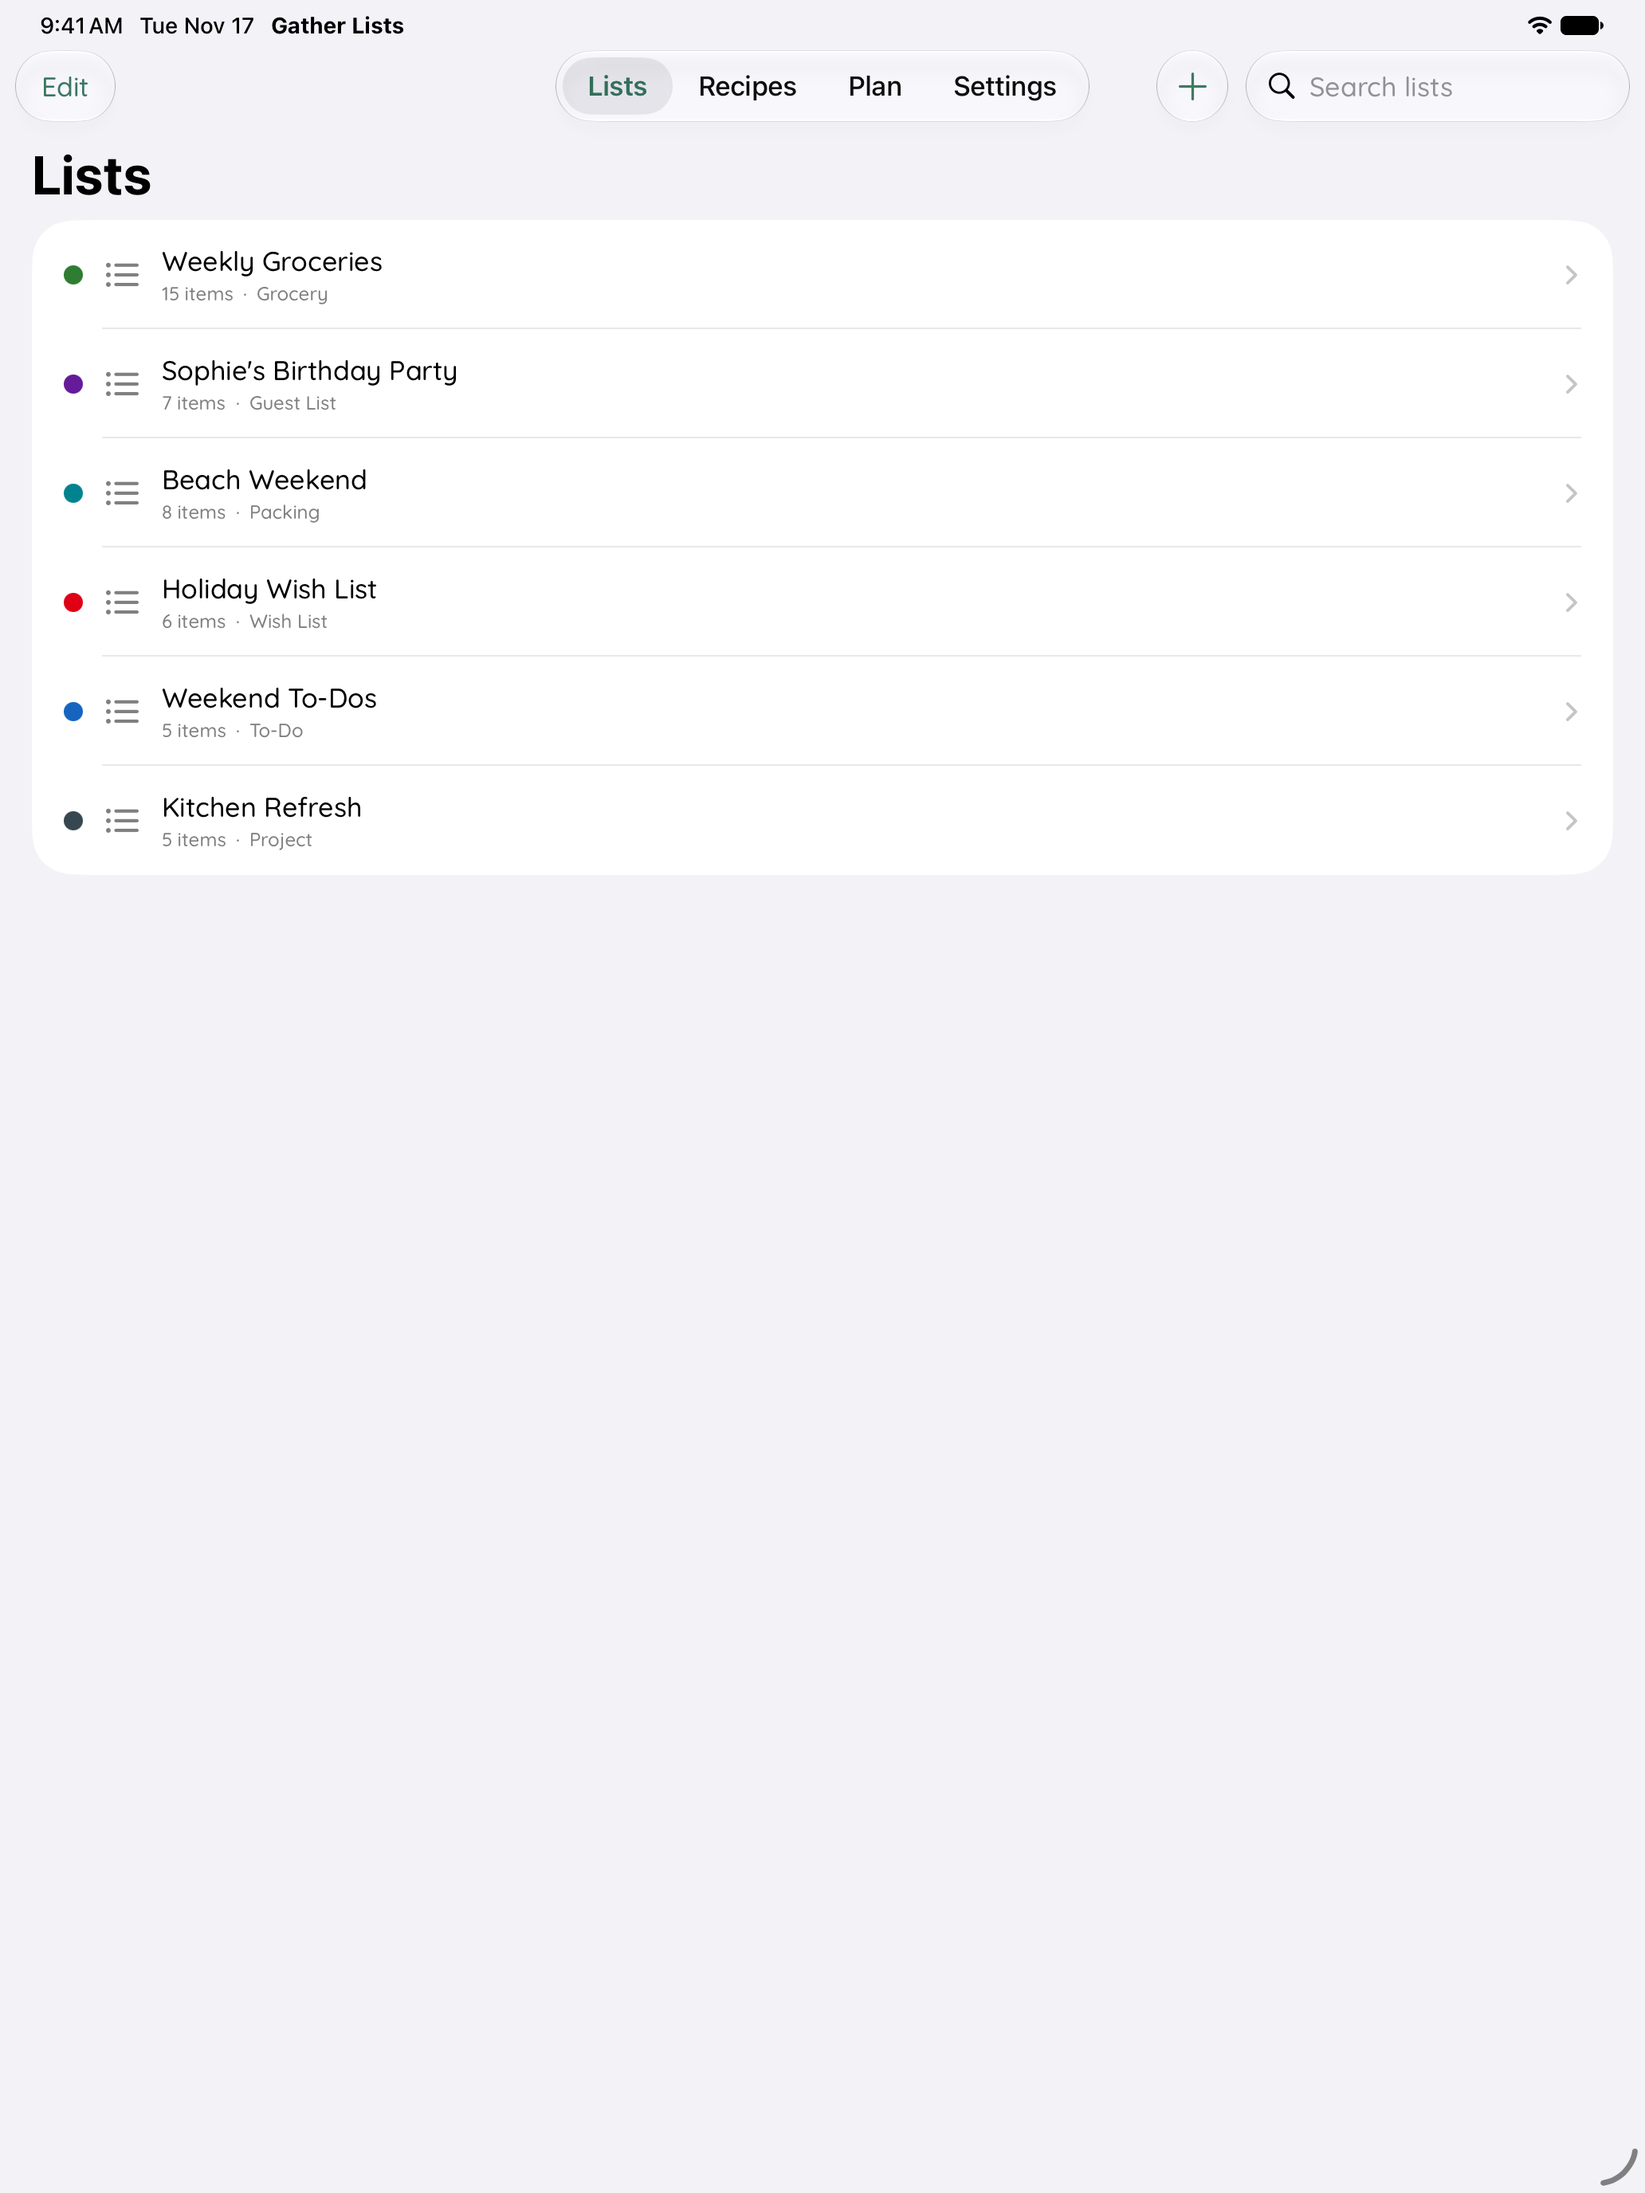
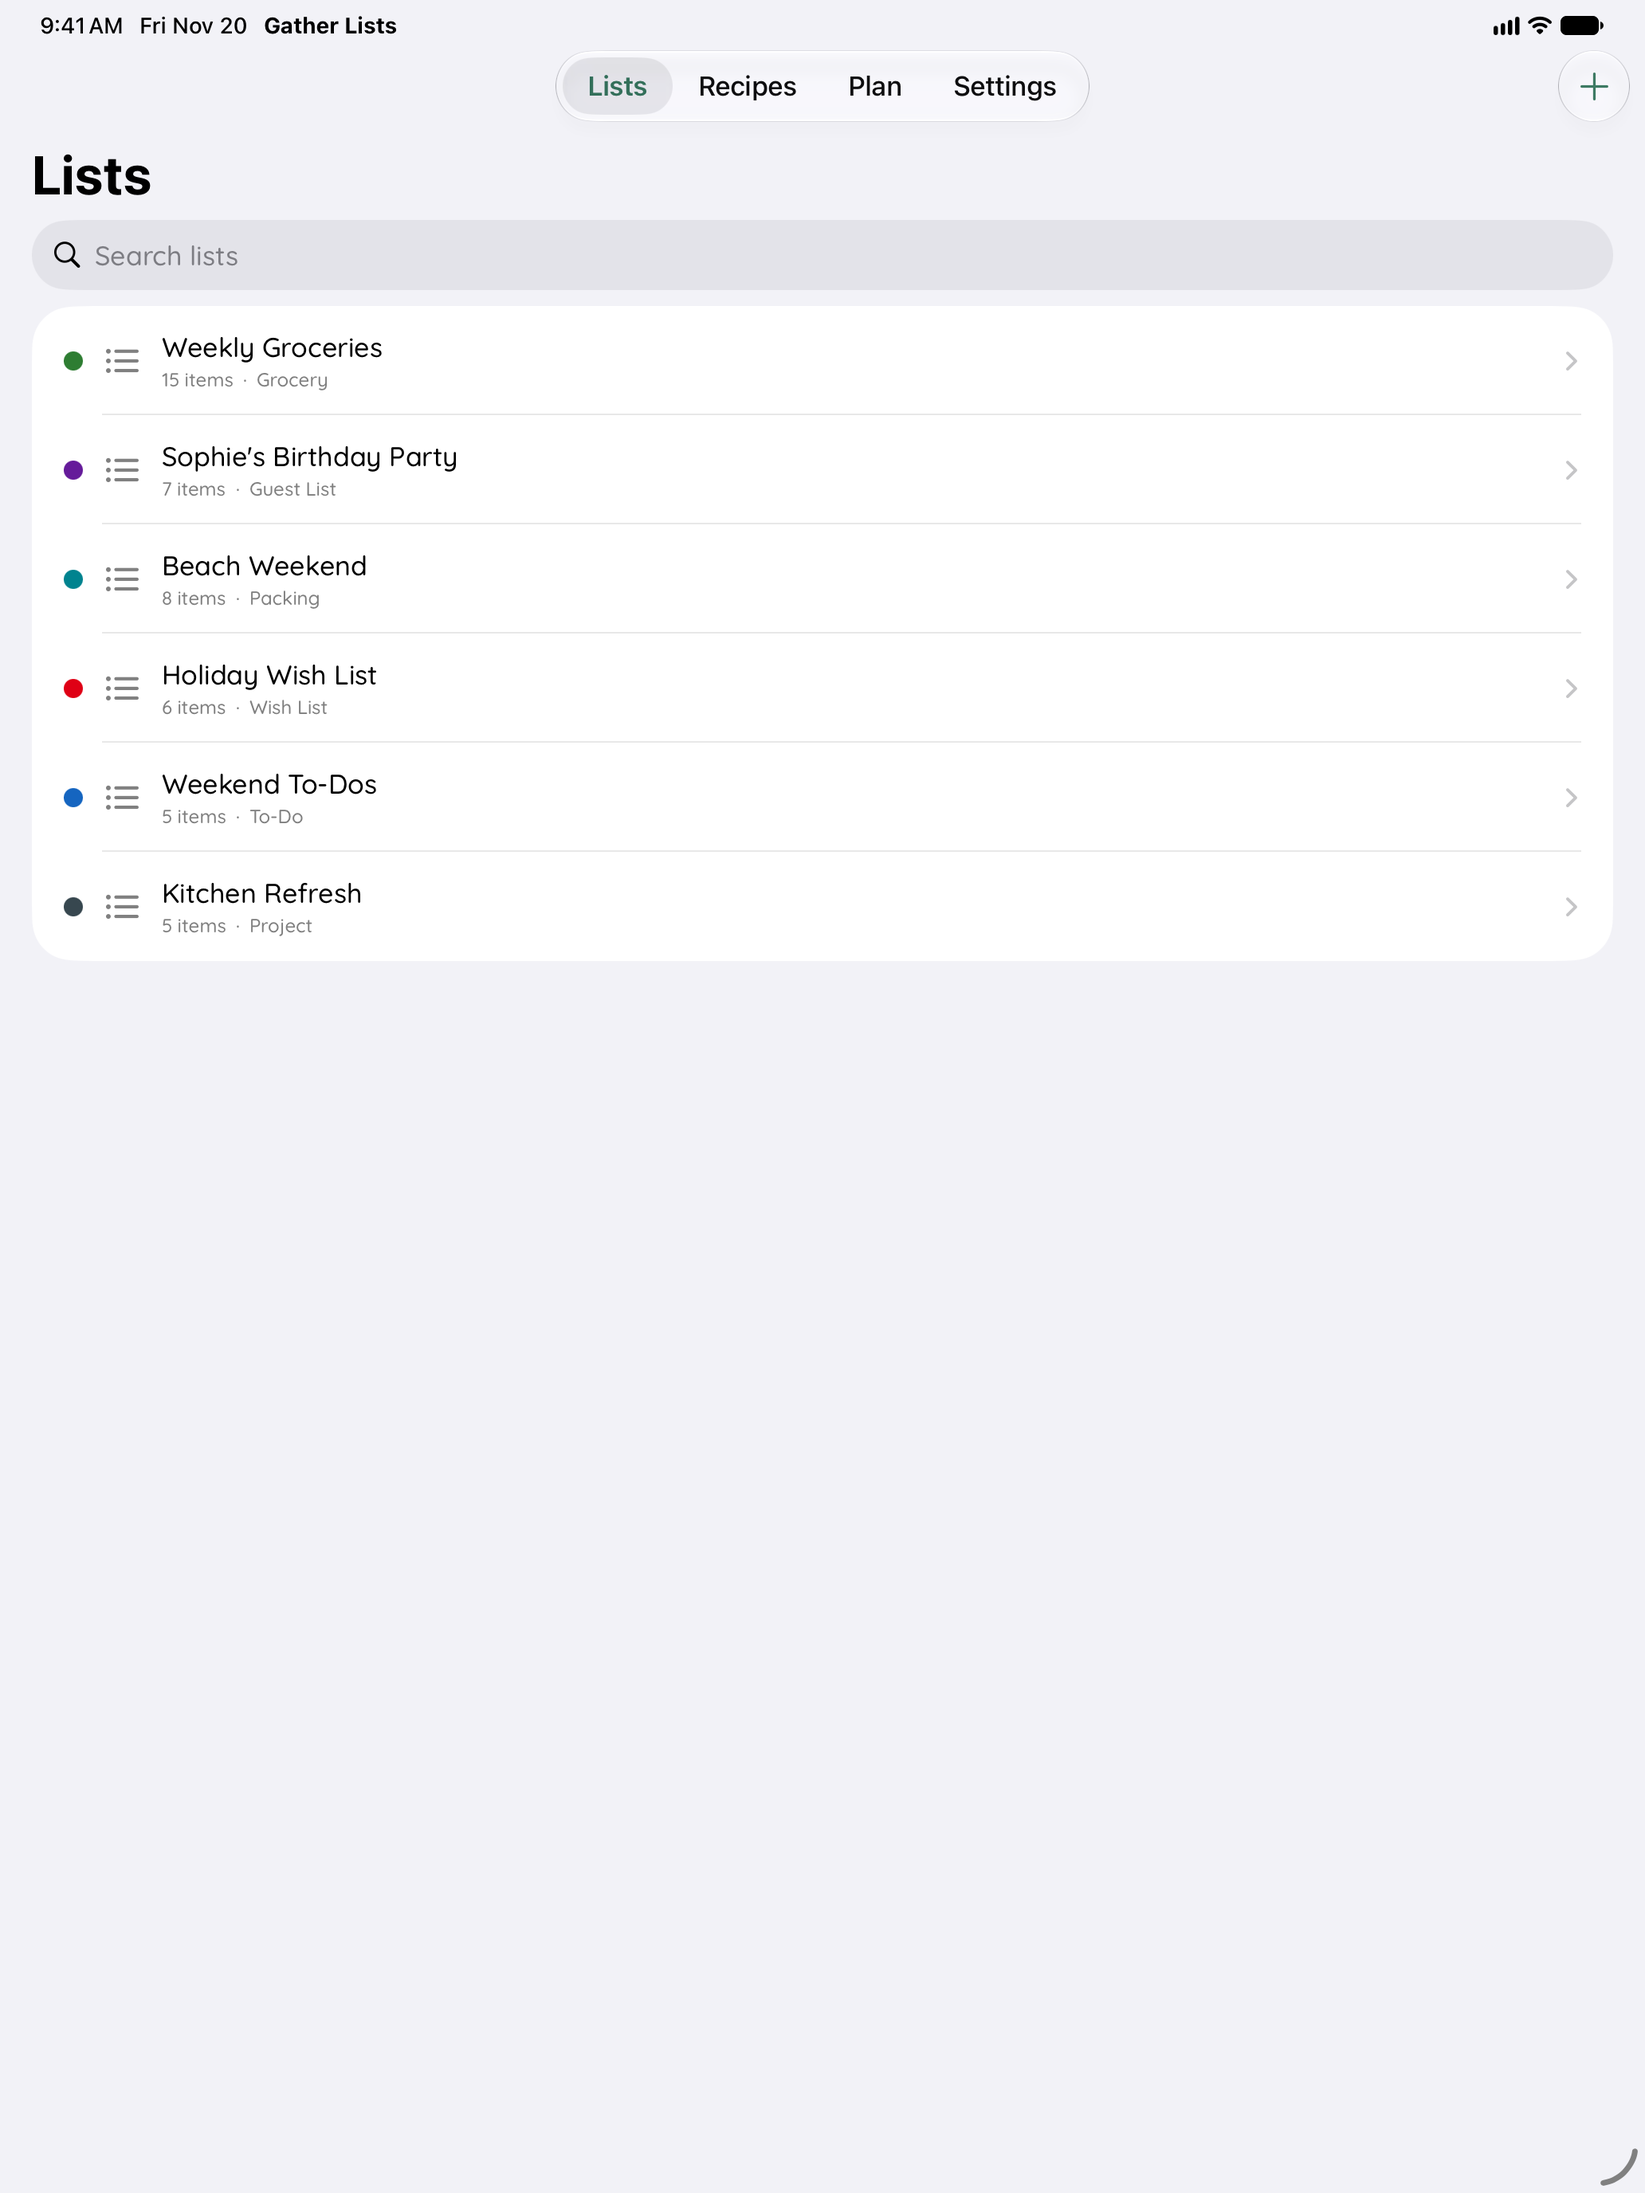
docs(app-store): retake store screenshots for the new list and recipe layouts
All seven screens on iPhone, iPad and iPhone Duo, from the build with
search in lists, card-style groups and the simplified headers.

Changed region(s): [[0.0, 0.0938, 0.9922, 0.4375], [0.093, 0.0, 0.2481, 0.0312]]

diff --git a/docs/app-store/screenshots/README.md b/docs/app-store/screenshots/README.md
@@ -34,6 +34,11 @@ PNG or JPEG, no alpha channel, up to 10 per size.
 
 ## Gotchas
 
+- The demo account is on the Pro limits tester list (`docs/memory/pro-gating.md`), so the meal plan and
+  recipe screens show lock notices. Take it off `pro_enforcement_testers` for the shoot and put it back after.
+- The simulator panel shows one device at a time, so each simulator needs its own sign-in.
+- Relaunching the app reopens the last list. Check where each device is before capturing.
+
 - A meal plan entry of kind `recipe` shows the literal word "Recipe" unless its `title` is also set.
 - Recipes without tags show an orange warning badge on the grid. The app auto-tags them the first time
   the Recipes tab loads, so open that tab once and relaunch before capturing.
